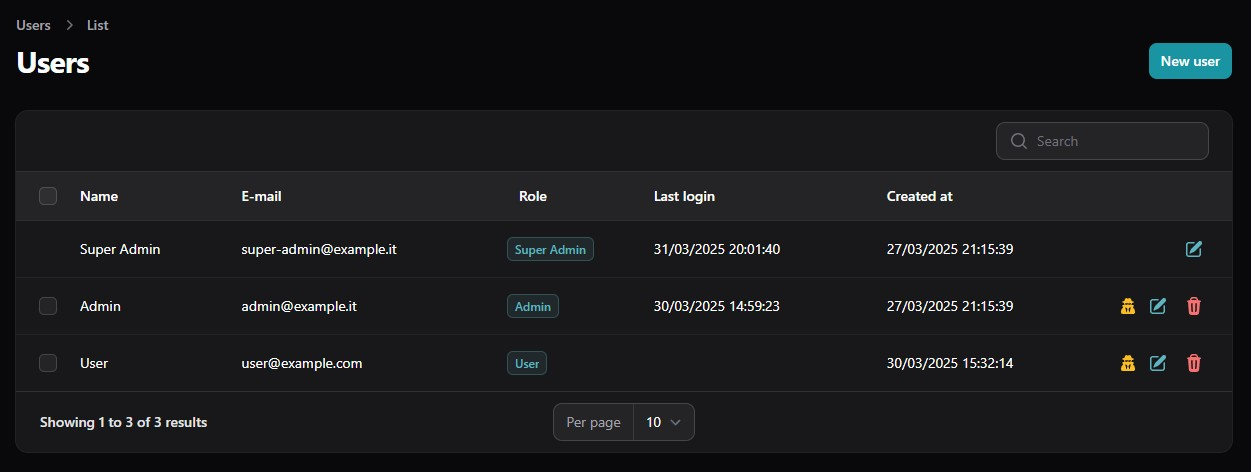
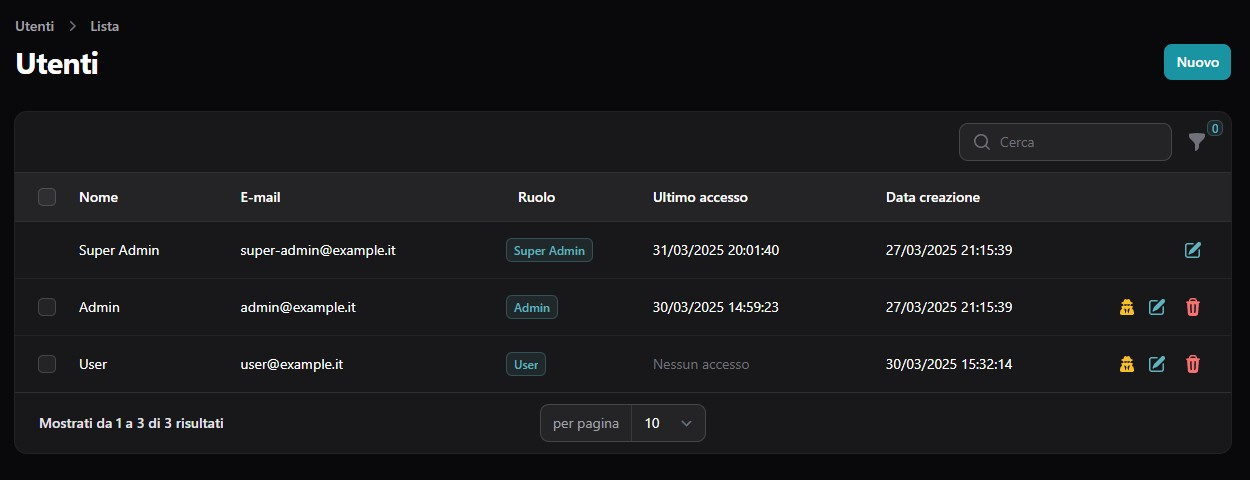
Optimized last_login_at field with placeholder for empty state. Updated README.

diff --git a/src/Filament/Resources/UserResource.php b/src/Filament/Resources/UserResource.php
@@ -140,7 +140,11 @@ class UserResource extends Resource
                 ->visible(fn (): bool => filamentShieldIsInstalled()),
             Tables\Columns\TextColumn::make('last_login_at')
                 ->label(__('filament-users::filament-users.resource.last_login_at'))
-                ->dateTime(config('filament-users.resource.datetime_format', 'Y-m-d H:i:s'))
+                ->formatStateUsing(function (string $state): string {
+                    return Carbon::parse($state)
+                        ->format(config('filament-users.resource.datetime_format', 'Y-m-d H:i:s'));
+                })
+                ->placeholder(__('filament-users::filament-users.resource.never_logged_in'))
                 ->visible(fn (): bool => filamentAuthenticationLogIsInstalled()),
             Tables\Columns\TextColumn::make('created_at')
                 ->label(__('filament-users::filament-users.resource.created_at'))

diff --git a/resources/lang/it/filament-users.php b/resources/lang/it/filament-users.php
@@ -12,6 +12,7 @@ return [
         'new_user' => 'Nuovo utente',
         'edit_user' => 'Modifica utente',
         'last_login_at' => 'Ultimo accesso',
+        'never_logged_in' => 'Nessun accesso',
         'created_from' => 'Creato dal',
         'created_until' => 'Creato al',
     ],

diff --git a/resources/lang/en/filament-users.php b/resources/lang/en/filament-users.php
@@ -12,6 +12,7 @@ return [
         'new_user' => 'New user',
         'edit_user' => 'Edit user',
         'last_login_at' => 'Last login',
+        'never_logged_in' => 'Never logged in',
         'created_from' => 'Created from',
         'created_until' => 'Created until',
     ],
